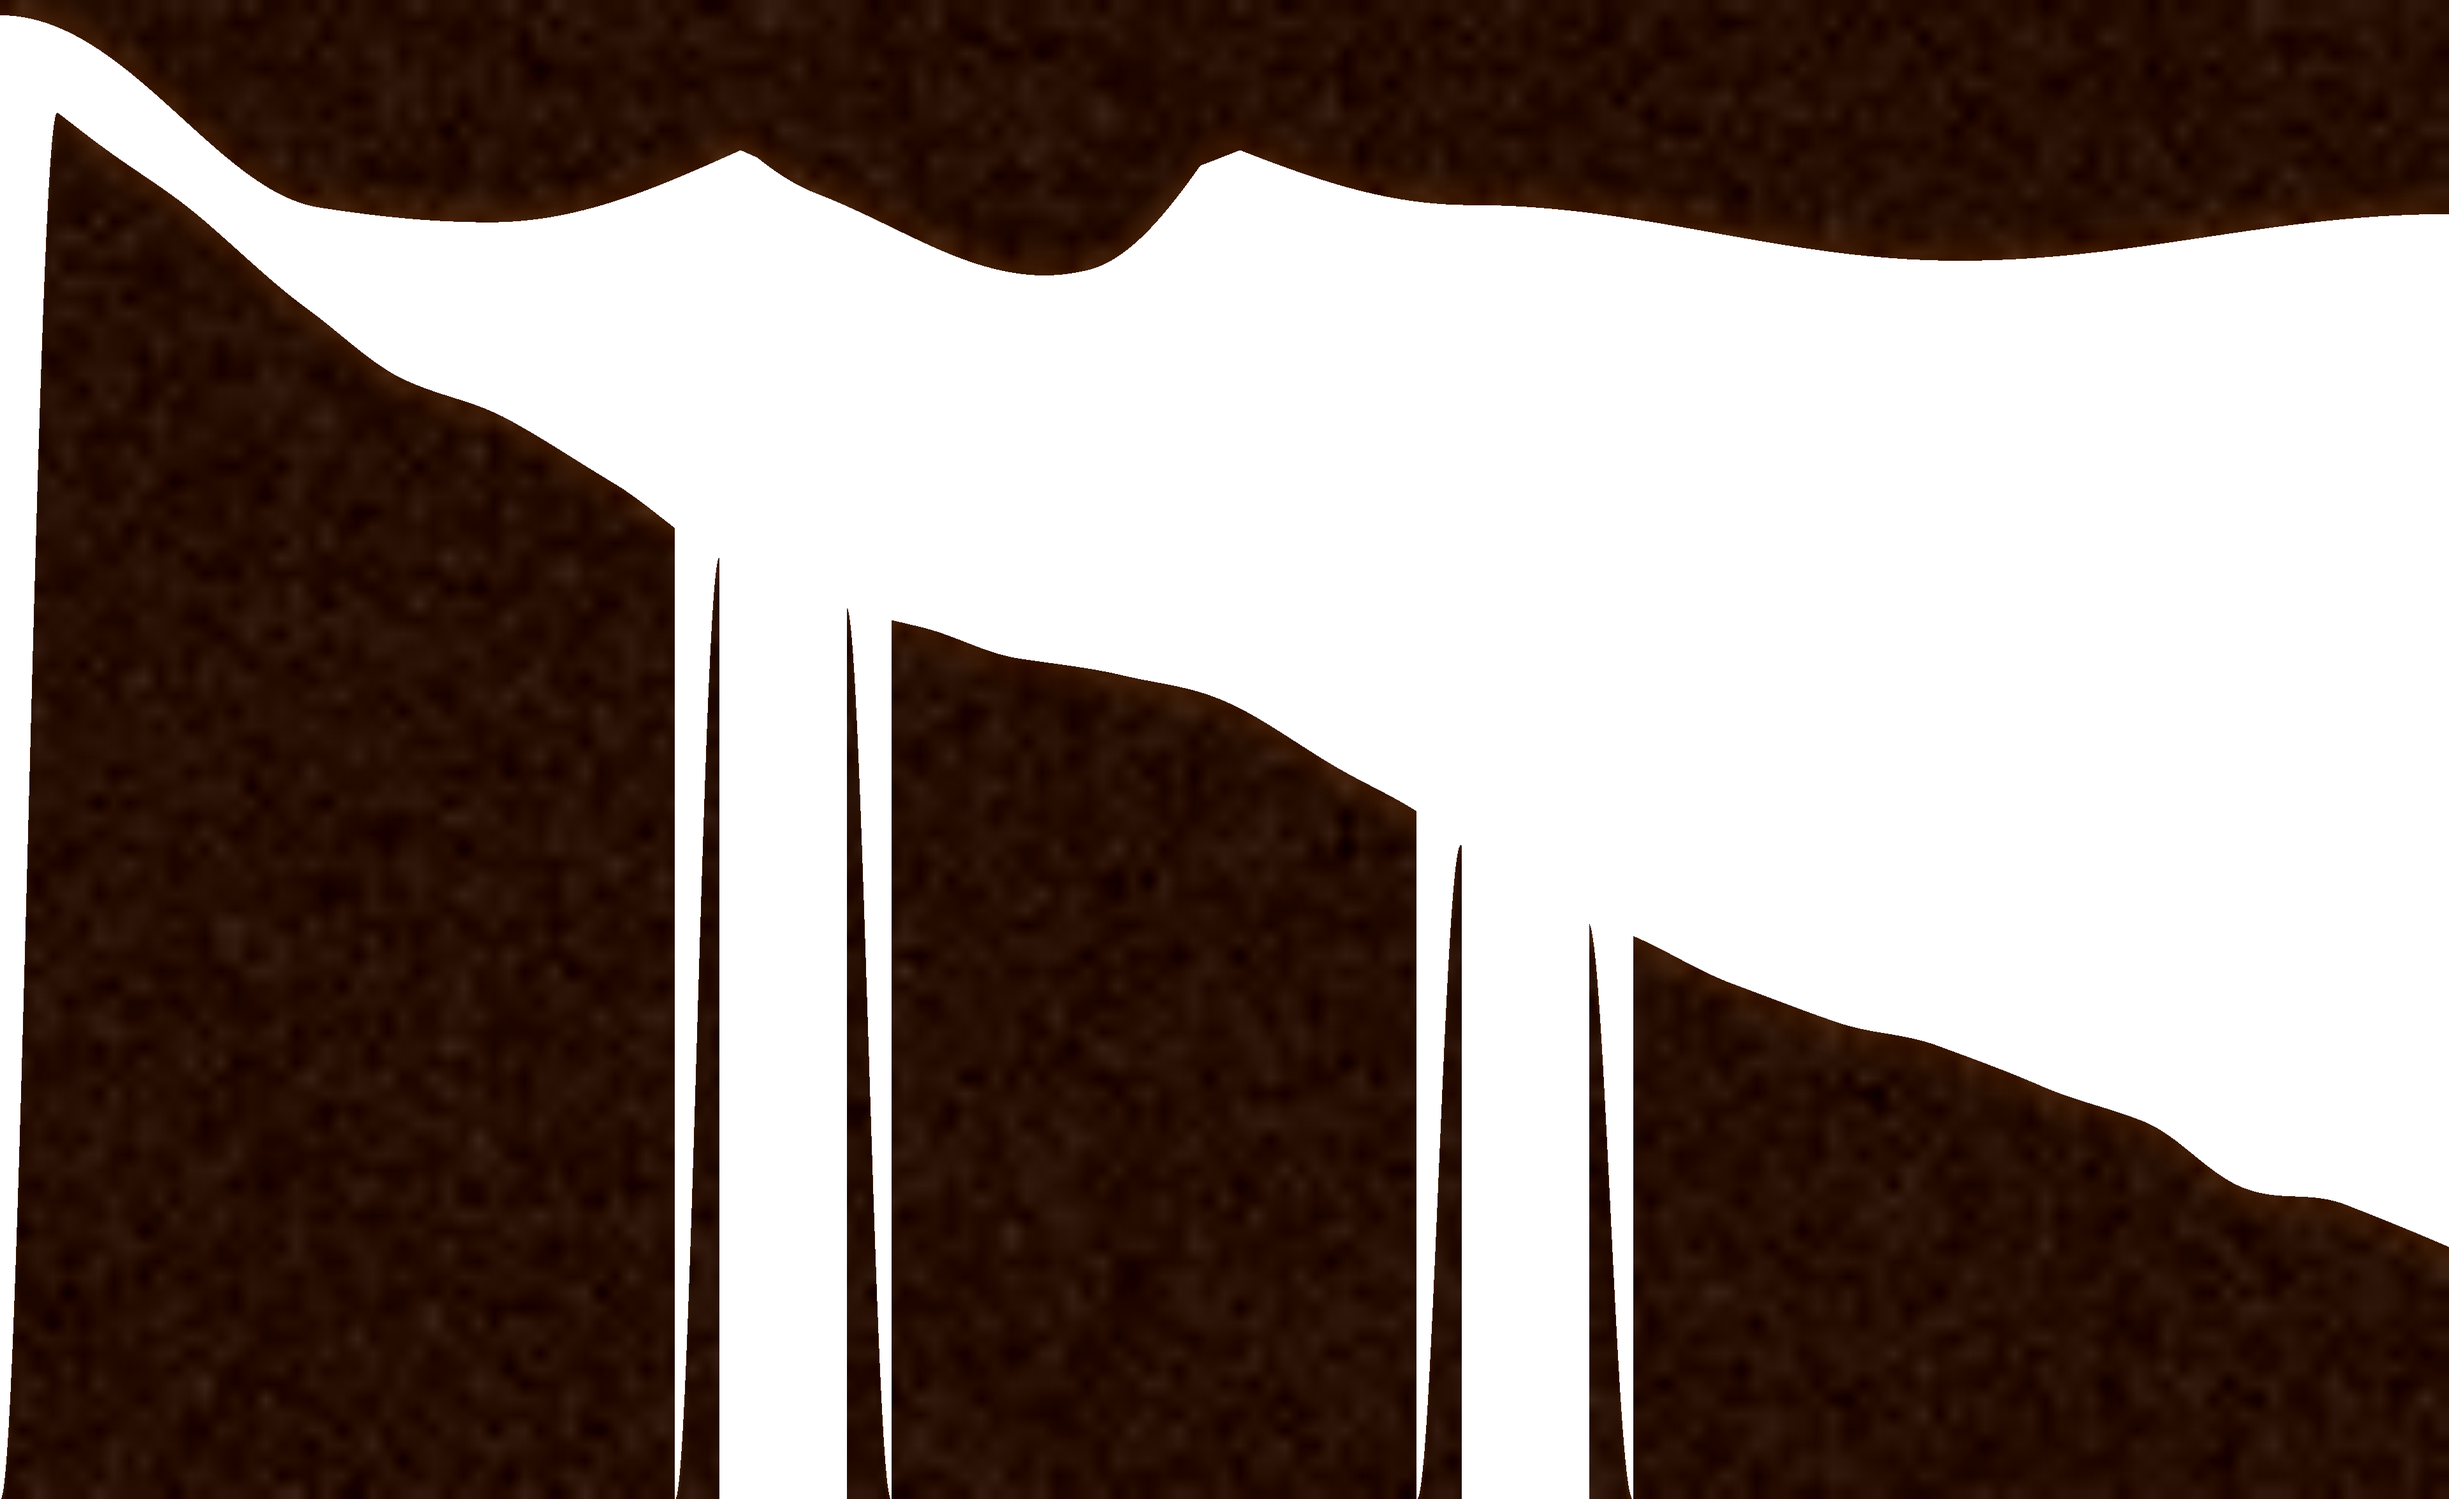
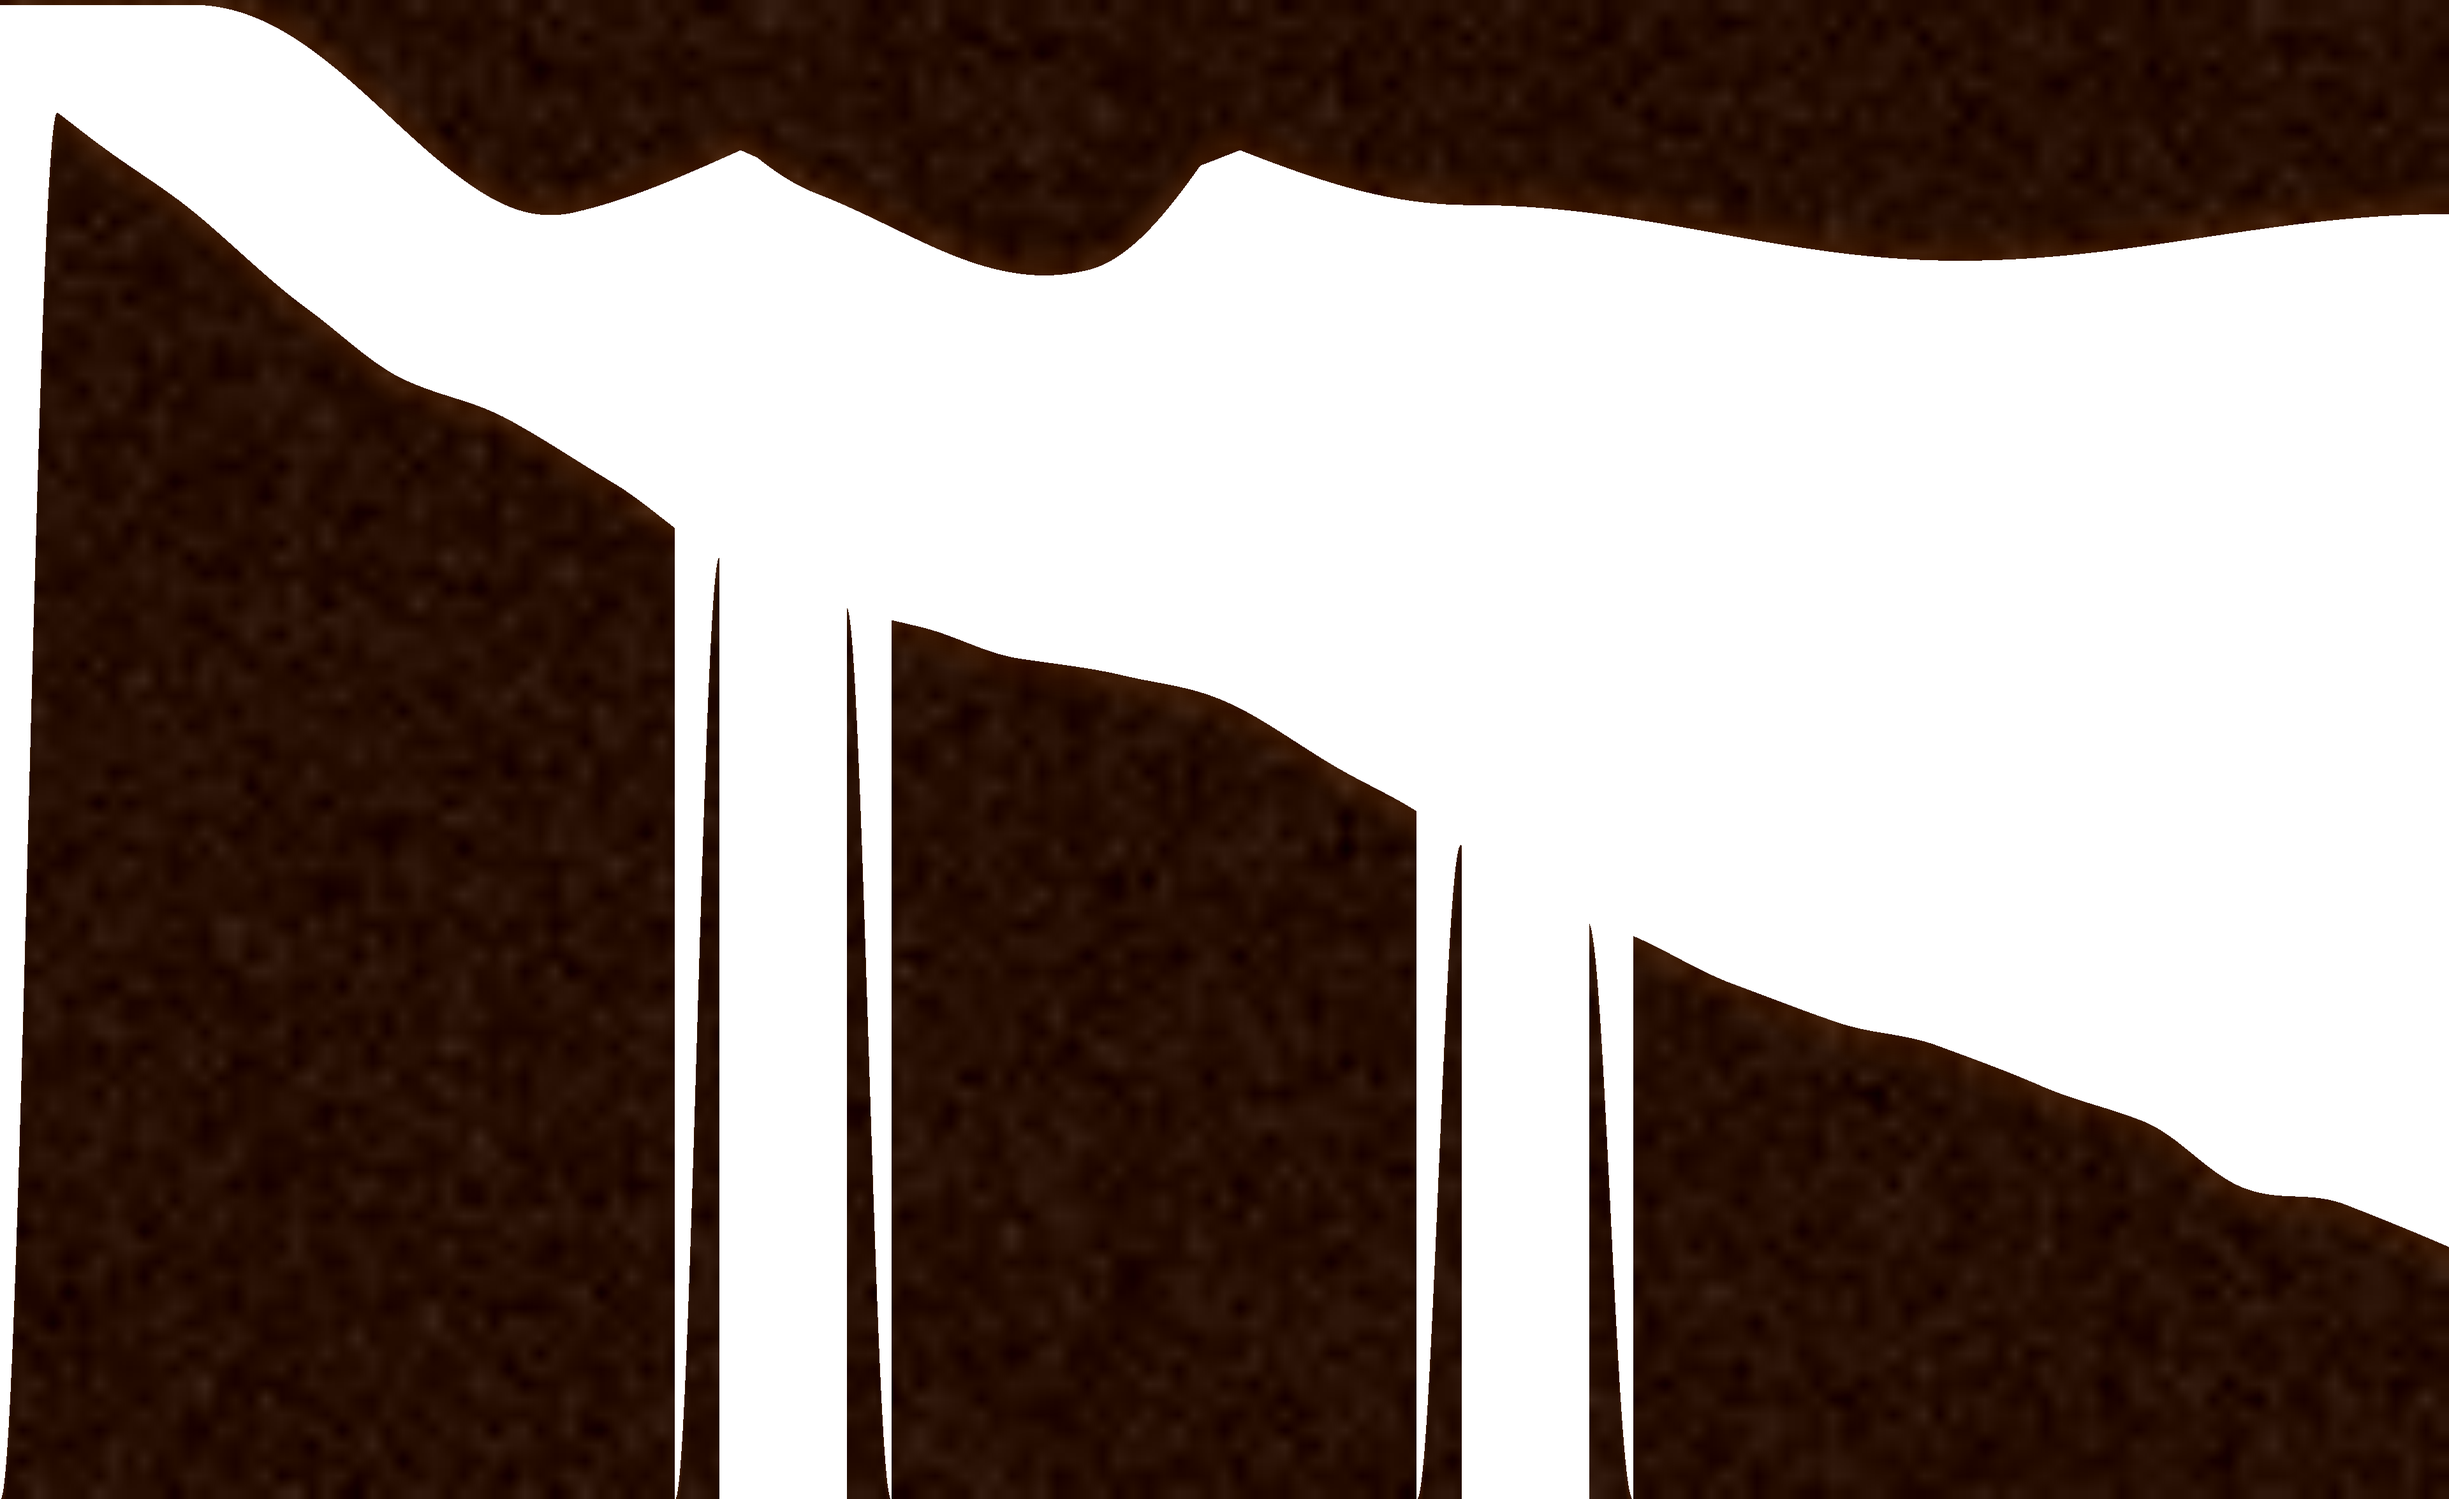
Fiks bane 5/6: marken spawnet faktisk inni taket
Forrige tak-klaring-fiks hadde riktig idé men et fortegn baklengs i
min egen verifikasjon: regnet "tak-verdi minus markens rad" og
kalte positivt trygt, men taket er solid FRA toppen av bildet OG
NED til kurve-verdien, sa storre verdi betyr taket rekker lenger
NED (naermere marken), ikke lenger unna. Riktig sjekk er omvendt.
Med feil fortegn saa en rapportert "125 enheter klaring" ut som
trygt, den var faktisk 125 enheter inni fjellet.

Skrevet om apply_ceiling_spawn_clearance() fra en enkelt letting-
kurve til en flat trygg sone (SPAWN_CLEAR_FLAT, tak presset mot
null) som dekker markens hele kroppsbredde ved spawn (alle ni
kroppsdelene deler samme rad, lokale kolonner ca 60-170), etterfulgt
av en lengre glidende overgang (SPAWN_CLEAR_RAMP) tilbake til normal
tak-dybde. Forrige forsok sin letting naadde forbi markens egen rad
lenge for kolonne 170, siden den brukte hele bredden sin til aa naa
tilbake til naturlig tak-dybde.

Sjekket paa nytt med riktig fortegn over hele det kritiske
kolonneomraadet (0-250), ikke bare ved spawn-kolonnen: +37 enheter
klaring jevnt for begge banene naa. Bekreftet visuelt med et
naerbilde av spawn-punktet mot de nye kollisjonsformene, ikke bare
et tall. Avstand fra spawn til bakken uendret (423/610).

Claude-Session: https://claude.ai/code/session_01KM3gBnL2KBiiwgB3FdLDrQ

Changed region(s): [[0.0, 0.0, 0.2188, 0.1553]]

diff --git a/TIL-ORJAN.md b/TIL-ORJAN.md
@@ -1804,3 +1804,52 @@ for begge banene på nytt for å bekrefte fiksen visuelt før commit.
 
 Luac-sjekket, kjørte fullt syntakssøk over repoet. Ikke testet i
 faktisk nettleser ennå.
+
+## 2026-09-15, bane 5: marken spawnet faktisk inni taket, egen tabbe
+
+Mathias testet i faktisk nettleser og meldte: "Marken spawner inne i
+taket på level 5". Overrasket, siden jeg hadde regnet ut og rapportert
+en "trygt positiv klaring" (125 enheter) for akkurat dette forrige
+runde. Gikk gjennom utregningen på nytt og fant feilen: den var min
+egen, i selve KONTROLLEN, ikke i spillkoden jeg allerede hadde skrevet.
+
+`apply_ceiling_spawn_clearance()` sin logikk var riktig, men
+verifikasjons-regnestykket mitt hadde fortegnet baklengs.
+Taket er solid fra rad 0 og NED TIL tak-kurven sin verdi, så jo
+STØRRE tak-verdien er, jo lenger NED strekker steinen seg (nærmere
+markens startpunkt, ikke lenger unna). Jeg regnet
+"tak-verdi minus markens rad" og kalte et POSITIVT tall trygt, det
+motsatte av riktig: riktig sjekk er "markens rad minus tak-verdi",
+positivt betyr marken sitter rad-messig UNDER (altså tallmessig
+lenger ned enn) der taket slutter, i åpent rom. Med feil fortegn så
+"125 enheter klaring" egentlig ut som en god verdi, den var faktisk
+125 enheter INNI fjellet.
+
+Rettet både utregningen og selve avstanden: `apply_ceiling_spawn_clearance()`
+skrevet om fra én enkelt letting-kurve til en FLAT trygg sone
+(`SPAWN_CLEAR_FLAT = 300` piksler, taket presset helt ned mot null)
+etterfulgt av en lengre, separat glidende overgang tilbake til normal
+tak-dybde (`SPAWN_CLEAR_RAMP = 600` piksler til). Grunnen til at forrige
+forsøk (300+ i praksis for smalt, se forrige logg) likevel traff feil:
+selv om verdien VAR liten ved kolonne 0, rakk den å stige forbi markens
+egen rad (25,5) lenge før kolonne 170 der marken faktisk spawner, fordi
+letting-kurven brukte den fulle 500-piksler bredden til å nå helt fram
+til den naturlige tak-dybden (~235+). Den flate sonen holder nå taket
+nede over HELE markens kroppsbredde ved spawn (regnet ut at alle ni
+kroppsdelene, som alle deler samme rad, dekker lokale kolonner ca
+60-170), ikke bare ved én enkelt kolonne.
+
+Sjekket på nytt, denne gangen med riktig fortegn, over hele det
+kritiske kolonneområdet (0-250), ikke bare ved markens egen
+spawn-kolonne: klaringen er nå jevnt +37 enheter over hele den flate
+sonen for både bane 5 og 6. Avstanden fra spawn til bakken uendret
+(423/610).
+
+Samme feil (og samme fiks) gjaldt bane 6 sitt script også, siden det
+er en kopi av bane 5 sitt med egne frø. Regenererte kun `level5/1.png`
+og `level6/1.png` (bare flis 1 sin tak-sone nær spawn faktisk endret
+seg, flis 2-4 upåvirket) og begge banenes `lib/shapedefs5/6.lua`.
+
+Luac-sjekket, kjørte fullt syntakssøk over repoet. Bekreftet visuelt
+med et nærbilde av spawn-punktet mot de nye kollisjonsformene før
+commit denne gangen, ikke bare et tall jeg selv kunne regne feil på.

diff --git a/KODEBASE.md b/KODEBASE.md
@@ -297,6 +297,19 @@ til tak-kurven. Antall fixtures per flis gikk fra ~40 til over 130.
 Se `TIL-ORJAN.md` for detaljene og hvordan feilen ble oppdaget
 (et referansebilde med kollisjonsformene tegnet oppå kunsten).
 
+**Tak-klaringen ved spawn, rettet på nytt:** forrige forsøk på
+`apply_ceiling_spawn_clearance()` hadde riktig idé men et fortegn
+baklengs i egen verifikasjon (regnet "tak-verdi minus markens rad" og
+kalte positivt trygt, riktig sjekk er omvendt siden taket er solid
+FRA toppen av bildet OG NED), så marken spawnet fortsatt 125 enheter
+inni fjellet i praksis, til tross for en rapportert "trygg klaring".
+Skrevet om til en flat, trygg sone (`SPAWN_CLEAR_FLAT`, tak presset
+mot null) som dekker markens HELE kroppsbredde ved spawn (alle ni
+kroppsdelene deler samme rad, kolonner ca 60-170), etterfulgt av en
+lengre glidende overgang (`SPAWN_CLEAR_RAMP`) tilbake til normal
+tak-dybde. Se `TIL-ORJAN.md` for hele regnefeilen og den nye,
+kolonne-for-kolonne-sjekkede klaringen.
+
 ### Banevalg-systemet
 - `ogt_levelmanager.lua` / `ogt_lmdata.lua` — **i bruk**, tredjeparts-aktig
   "level select grid"-bibliotek (paginert rutenett, lås/opplåsing,
